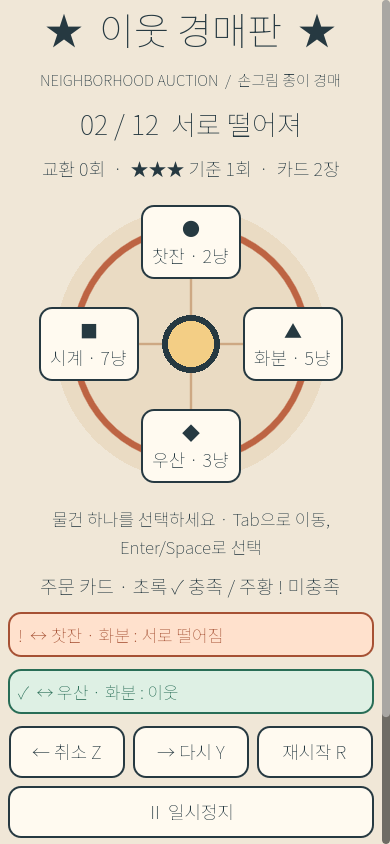
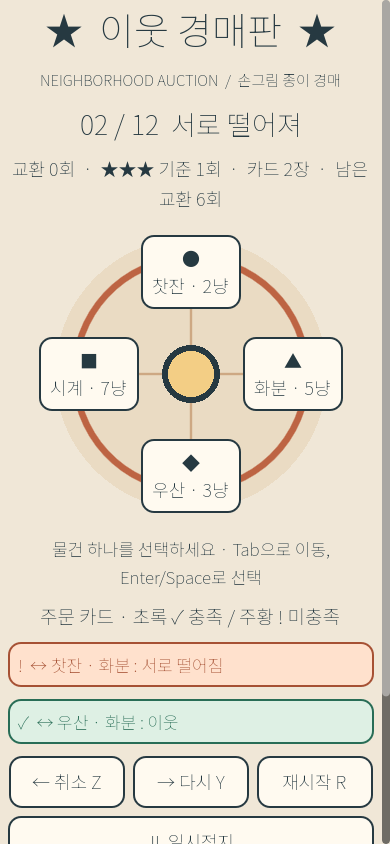
Add bounded-loss flow and verify browser states

Changed region(s): [[0.0, 0.1848, 1.0, 1.0], [0.7077, 0.6161, 0.7385, 0.6777]]

diff --git a/docs/index.html b/docs/index.html
@@ -111,7 +111,7 @@ body {
 
 		<script src="index.js"></script>
 		<script>
-const GODOT_CONFIG = {"args":[],"canvasResizePolicy":2,"emscriptenPoolSize":8,"ensureCrossOriginIsolationHeaders":true,"executable":"index","experimentalVK":false,"fileSizes":{"index.pck":6757200,"index.wasm":39514754},"focusCanvas":true,"gdextensionLibs":[],"godotPoolSize":4};
+const GODOT_CONFIG = {"args":[],"canvasResizePolicy":2,"emscriptenPoolSize":8,"ensureCrossOriginIsolationHeaders":true,"executable":"index","experimentalVK":false,"fileSizes":{"index.pck":6757696,"index.wasm":39514754},"focusCanvas":true,"gdextensionLibs":[],"godotPoolSize":4};
 const GODOT_THREADS_ENABLED = false;
 const engine = new Engine(GODOT_CONFIG);
 

diff --git a/tests/browser_smoke.py b/tests/browser_smoke.py
@@ -36,7 +36,12 @@ with sync_playwright() as p:
         press((680,250) if label=='desktop' else (285,248)); page.wait_for_timeout(600)
         page.reload(); page.wait_for_timeout(3000)
         path=root/f'{label}-saved-home.png'; page.screenshot(path=str(path))
-        print(label,'touch' if label=='mobile' else 'mouse','tutorial/win/next/restart/pause/reload screenshots',root,'page errors',errs,flush=True)
+        press((452,220) if label=='desktop' else (291,329)); page.wait_for_timeout(300)
+        for _ in range(6):
+            for xy in ([(446,248),(562,365)] if label=='desktop' else [(191,248),(292,365)]):
+                press(xy); page.wait_for_timeout(100)
+        path=root/f'{label}-loss.png'; page.screenshot(path=str(path))
+        print(label,'touch' if label=='mobile' else 'mouse','tutorial/win/next/restart/pause/reload/loss screenshots',root,'page errors',errs,flush=True)
         if errs: raise AssertionError(errs)
         page.close()
     b.close()
